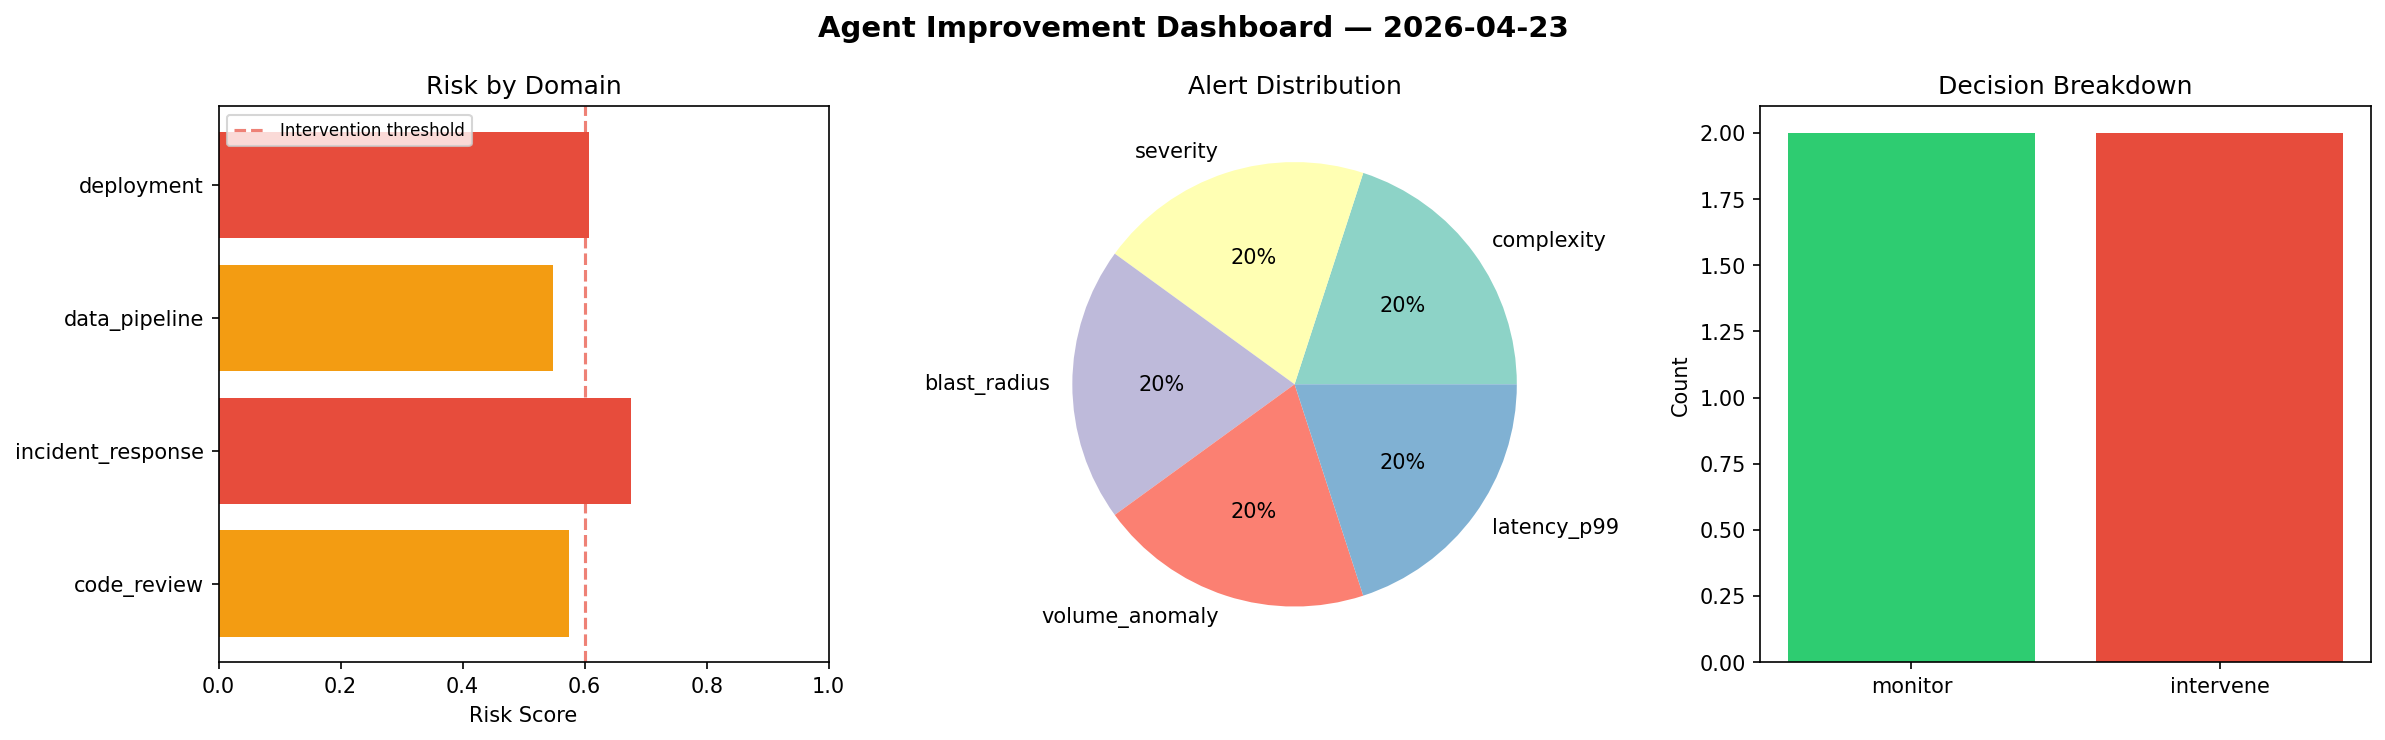
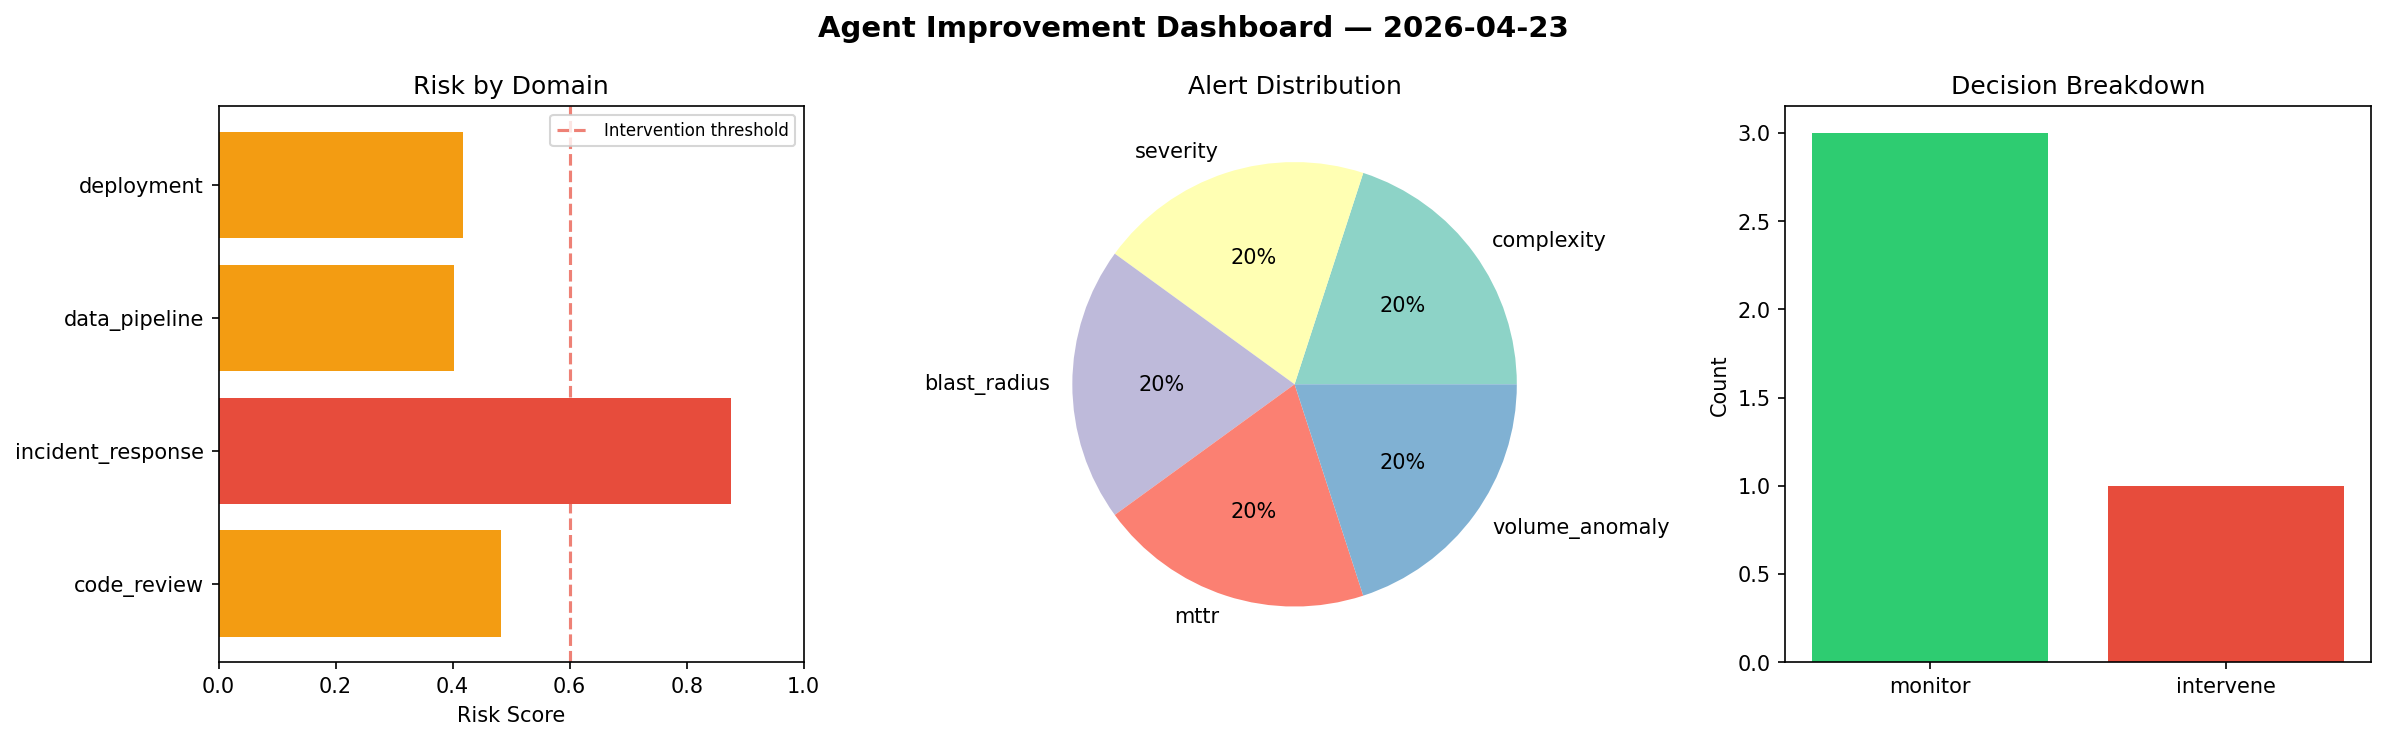
agent-improvement: daily cycle 2026-04-23T09:56

diff --git a/logs/2026-04-23.md b/logs/2026-04-23.md
@@ -1,6 +1,6 @@
 # Agent Improvement Report — 2026-04-23
 
-**Cycle ID:** `ce848de8` | **Avg Risk:** 0.6015 | **Interventions:** 2/4
+**Cycle ID:** `cfbd09b8` | **Avg Risk:** 0.5449 | **Interventions:** 1/4
 
 ![Dashboard](2026-04-23_dashboard.png)
 
@@ -10,18 +10,18 @@
 
 | Domain | Risk Score | Decision | Alerts |
 |--------|-----------|----------|--------|
-| code_review | 0.5739 | monitor | complexity |
-| incident_response | 0.6767 | intervene | severity, blast_radius |
-| data_pipeline | 0.5486 | monitor | volume_anomaly |
-| deployment | 0.6069 | intervene | latency_p99 |
+| code_review | 0.4828 | monitor | complexity |
+| incident_response | 0.8756 | intervene | severity, blast_radius, mttr |
+| data_pipeline | 0.4027 | monitor | volume_anomaly |
+| deployment | 0.4186 | monitor | none |
 
 ## Delta vs Yesterday
 
 | Domain | Today | Yesterday | Change |
 |--------|-------|-----------|--------|
-| code_review | 0.5739 | 0.6207 | 📉 -7.5% |
-| incident_response | 0.6767 | 0.4591 | 📈 47.4% |
-| data_pipeline | 0.5486 | 0.3047 | 📈 80.0% |
-| deployment | 0.6069 | 0.4444 | 📈 36.6% |
+| code_review | 0.4828 | 0.6207 | 📉 -22.2% |
+| incident_response | 0.8756 | 0.4591 | 📈 90.7% |
+| data_pipeline | 0.4027 | 0.3047 | 📈 32.2% |
+| deployment | 0.4186 | 0.4444 | 📉 -5.8% |
 
-**Refinement:** `{'adjustment': 'tighten_thresholds', 'trend': 'degrading', 'window': 4}`
+**Refinement:** `{'adjustment': 'maintain', 'trend': 'improving', 'window': 4}`
